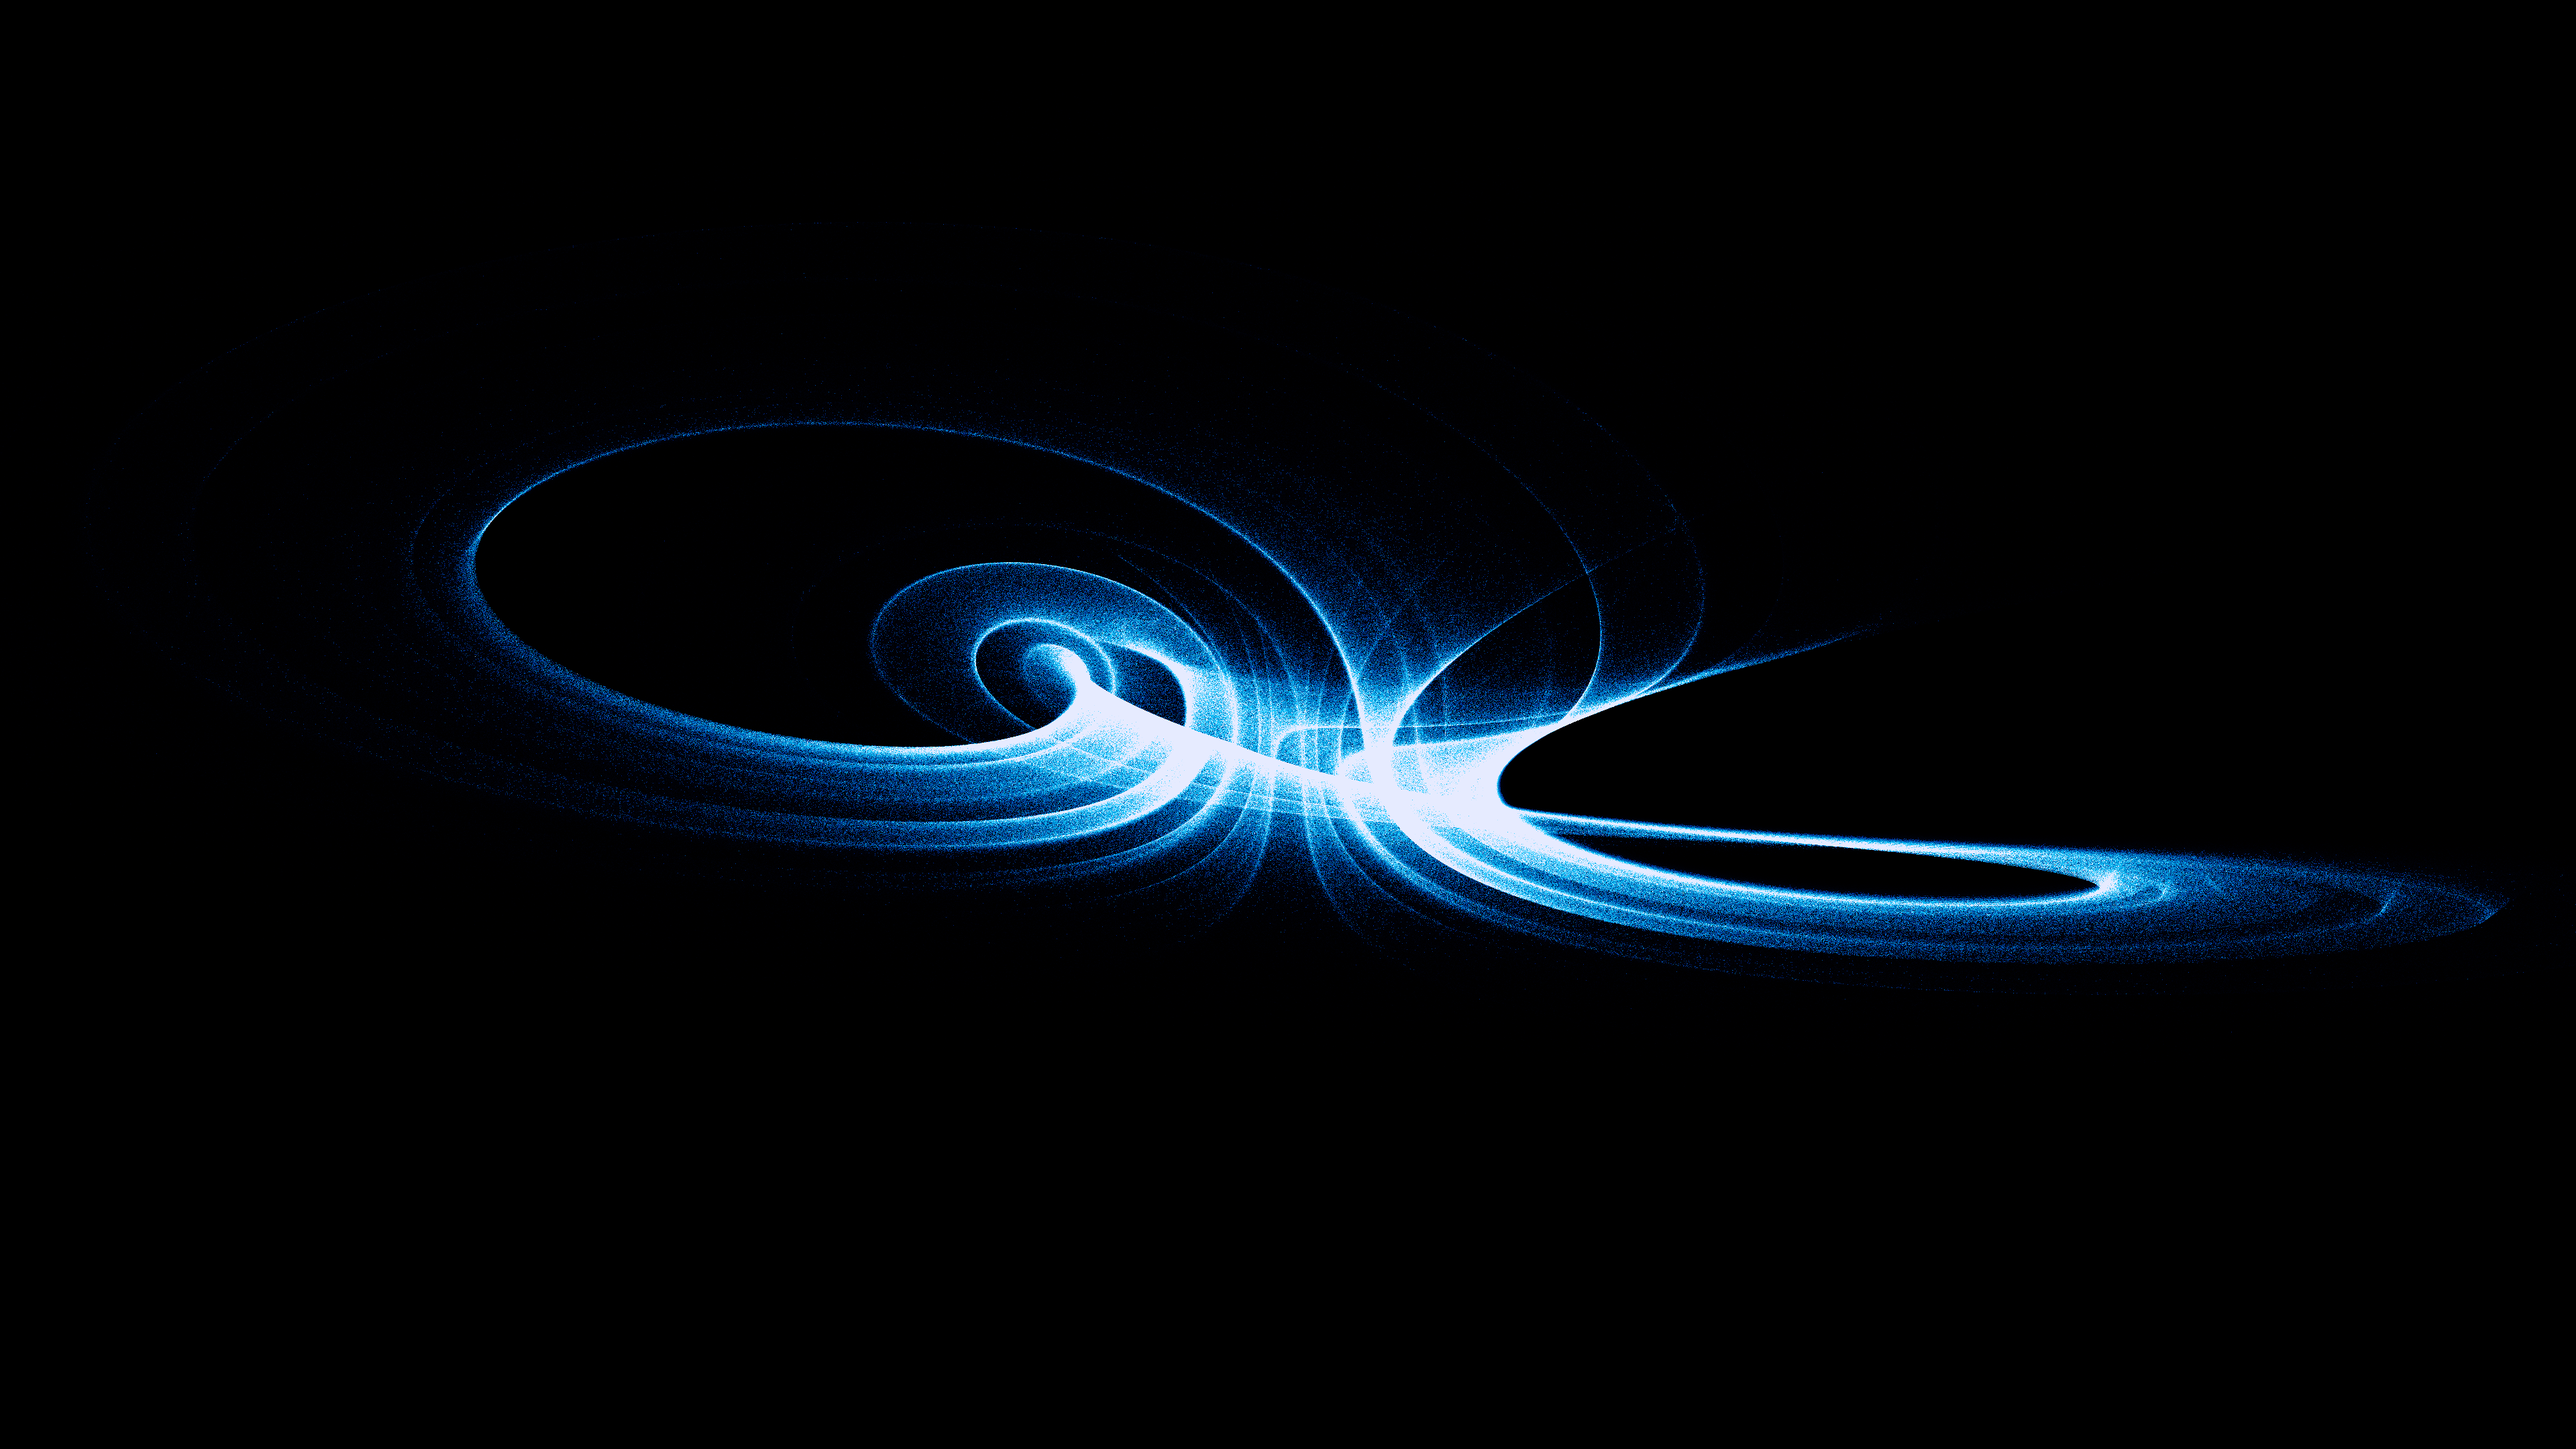
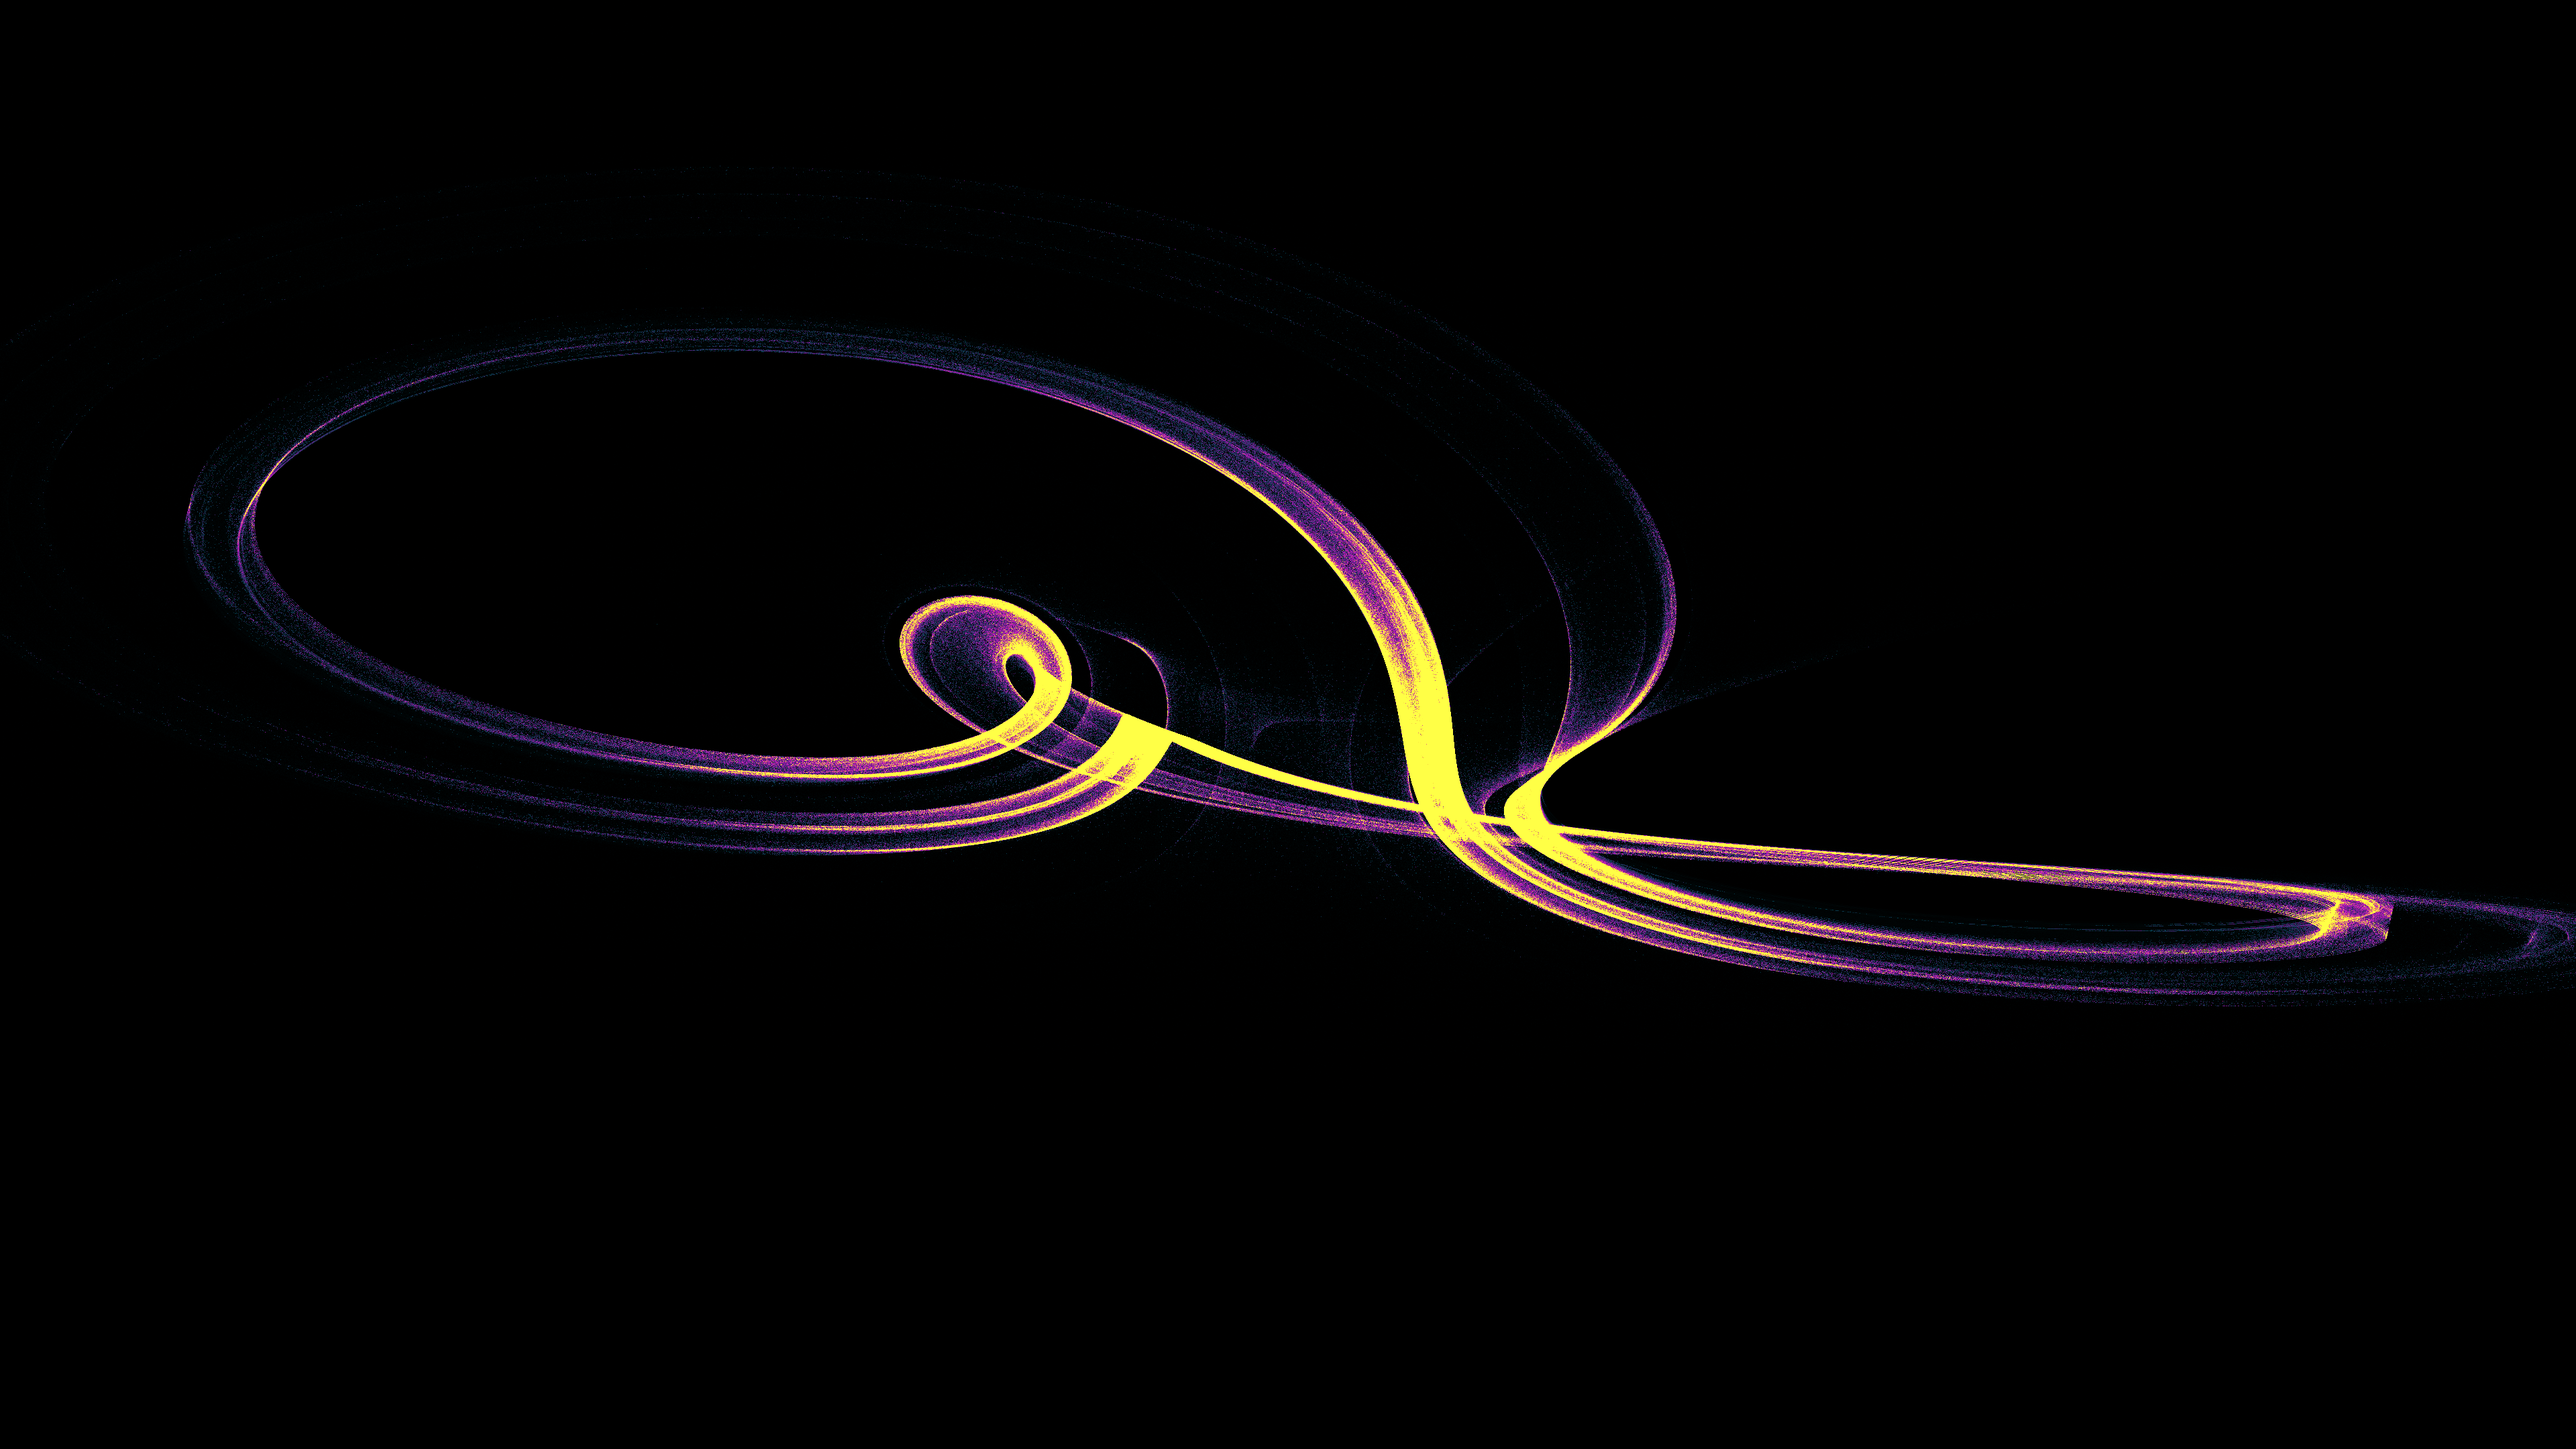
feat: add kinetic_burke_shaw_attractor_2d

Changed region(s): [[0.0625, 0.2171, 1.0, 0.7134], [0.1562, 0.3722, 0.1875, 0.4343], [0.1562, 0.2481, 0.1875, 0.2792]]

diff --git a/sketch/kinetic_burke_shaw_attractor_2d/main.py b/sketch/kinetic_burke_shaw_attractor_2d/main.py
@@ -26,15 +26,17 @@ SIZE = OUTPUT_SIZE
 # Simulation state
 N = 1000000
 # Initial points spread around the origin
-x = np.random.uniform(-1, 1, N).astype(np.float32)
-y = np.random.uniform(-1, 1, N).astype(np.float32)
-z = np.random.uniform(0, 1, N).astype(np.float32)
+x = np.random.uniform(-0.1, 0.1, N).astype(np.float32)
+y = np.random.uniform(-0.1, 0.1, N).astype(np.float32)
+z = np.random.uniform(-0.1, 0.1, N).astype(np.float32)
 
 density_buffer = np.zeros((SIZE[1], SIZE[0]), dtype=np.float32)
 
-def step_burke_shaw(s, v, dt=0.005):
+def step_burke_shaw(s, dt=0.01):
     global x, y, z
-    # Euler integration step for the Burke-Shaw attractor
+    # Euler integration step for the Burke-Shaw Attractor
+    v = 4.272
+    
     dx = -s * (x + y)
     dy = -y - s * x * z
     dz = s * x * y + v
@@ -45,9 +47,9 @@ def step_burke_shaw(s, v, dt=0.005):
     
     # Keep particles bounded just in case
     mask = (np.abs(x_new) > 5) | (np.abs(y_new) > 5) | (np.abs(z_new) > 5) | np.isnan(x_new)
-    x_new[mask] = np.random.uniform(-1, 1, np.sum(mask)).astype(np.float32)
-    y_new[mask] = np.random.uniform(-1, 1, np.sum(mask)).astype(np.float32)
-    z_new[mask] = np.random.uniform(0, 1, np.sum(mask)).astype(np.float32)
+    x_new[mask] = np.random.uniform(-0.1, 0.1, np.sum(mask)).astype(np.float32)
+    y_new[mask] = np.random.uniform(-0.1, 0.1, np.sum(mask)).astype(np.float32)
+    z_new[mask] = np.random.uniform(-0.1, 0.1, np.sum(mask)).astype(np.float32)
     
     x[:] = x_new
     y[:] = y_new
@@ -64,12 +66,11 @@ def draw():
     t = py5.frame_count * 2 * np.pi / TOTAL_FRAMES
     
     # Burke-Shaw parameter with continuous modulation
-    s = 10.0
-    v = 4.272 + 0.5 * np.sin(t)
+    s = 10.0 + np.sin(t)
     
     # Run integration steps
     for _ in range(5):
-        step_burke_shaw(s, v, dt=0.005)
+        step_burke_shaw(s, dt=0.005)
         
     # Rotate 3D attractor gently over time
     theta = t * 0.4
@@ -86,9 +87,9 @@ def draw():
     z_rot2 = y_rot1 * np.sin(phi) + z_rot1 * np.cos(phi)
     
     # Map to screen
-    # Burke-Shaw typical size: x,y in [-2, 2], z in [-2, 2]
-    screen_x = (x_rot2 + 2.5) / 5.0 * SIZE[0]
-    screen_y = (y_rot2 + 2.5) / 5.0 * SIZE[1]
+    # Burke-Shaw typical size: x,y,z in [-2, 2]
+    screen_x = (x_rot2 + 2.0) / 4.0 * SIZE[0]
+    screen_y = (y_rot2 + 2.0) / 4.0 * SIZE[1]
     
     # Fast 2D histogram
     H, _, _ = np.histogram2d(screen_y, screen_x, bins=(SIZE[1], SIZE[0]), range=[[0, SIZE[1]], [0, SIZE[0]]])
@@ -100,25 +101,25 @@ def draw():
     py5.load_np_pixels()
     
     # Map density to colors
-    # Palette: Sapphire, Cyan, and Platinum
+    # Palette: Cyan, Magenta, and Yellow
     density_norm = np.clip(density_buffer / 12.0, 0, 1)
     
-    # Sapphire base
+    # Cyan base
     r_col = 0 * (density_norm ** 1.5)
-    g_col = 30 * (density_norm ** 1.5)
-    b_col = 130 * (density_norm ** 1.5)
+    g_col = 60 * (density_norm ** 1.5)
+    b_col = 70 * (density_norm ** 1.5)
     
-    # Cyan midtones
-    cyan_mask = (density_norm > 0.3) & (density_norm < 0.7)
-    r_col[cyan_mask] = np.maximum(r_col[cyan_mask], 0 + 0 * ((density_norm[cyan_mask] - 0.3) / 0.4))
-    g_col[cyan_mask] = np.maximum(g_col[cyan_mask], 30 + 170 * ((density_norm[cyan_mask] - 0.3) / 0.4))
-    b_col[cyan_mask] = np.maximum(b_col[cyan_mask], 130 + 125 * ((density_norm[cyan_mask] - 0.3) / 0.4))
+    # Magenta midtones
+    mag_mask = (density_norm > 0.3) & (density_norm < 0.7)
+    r_col[mag_mask] = np.maximum(r_col[mag_mask], 0 + 200 * ((density_norm[mag_mask] - 0.3) / 0.4))
+    g_col[mag_mask] = np.maximum(g_col[mag_mask], 60 - 60 * ((density_norm[mag_mask] - 0.3) / 0.4))
+    b_col[mag_mask] = np.maximum(b_col[mag_mask], 70 + 130 * ((density_norm[mag_mask] - 0.3) / 0.4))
     
-    # Platinum highlights
-    plat_mask = density_norm > 0.7
-    r_col[plat_mask] = np.maximum(r_col[plat_mask], 0 + 230 * ((density_norm[plat_mask] - 0.7) / 0.3))
-    g_col[plat_mask] = np.maximum(g_col[plat_mask], 200 + 35 * ((density_norm[plat_mask] - 0.7) / 0.3))
-    b_col[plat_mask] = np.maximum(b_col[plat_mask], 255 + 0 * ((density_norm[plat_mask] - 0.7) / 0.3))
+    # Yellow highlights
+    yel_mask = density_norm > 0.7
+    r_col[yel_mask] = np.maximum(r_col[yel_mask], 200 + 55 * ((density_norm[yel_mask] - 0.7) / 0.3))
+    g_col[yel_mask] = np.maximum(g_col[yel_mask], 0 + 255 * ((density_norm[yel_mask] - 0.7) / 0.3))
+    b_col[yel_mask] = np.maximum(b_col[yel_mask], 200 - 200 * ((density_norm[yel_mask] - 0.7) / 0.3))
     
     py5.np_pixels[:, :, 0] = 255
     py5.np_pixels[:, :, 1] = r_col.astype(np.uint8)

diff --git a/sketch/WORKS.md b/sketch/WORKS.md
@@ -1,3 +1,10 @@
+## kinetic_burke_shaw_attractor_2d
+- **Date**: 2026-07-25
+- **Type**: Animation (900 frames, 60fps)
+- **Concept**: A continuous 3D chaotic flow with intricate and elegant spiraling vortex flows.
+- **Techniques**: The Burke-Shaw Attractor. We numerically integrate the continuous differential equations using the Euler method for 1M particles. The spiraling 3D structure is rotated and orthographically projected onto the 2D plane, gently modulating the parameter `s` over time.
+- **Palette**: Cyan, Magenta, and Yellow.
+
 ## kinetic_coullet_attractor_2d
 - **Date**: 2026-07-25
 - **Type**: Animation (900 frames, 60fps)

diff --git a/.agents/FEEDBACK.md b/.agents/FEEDBACK.md
@@ -4,6 +4,12 @@
 Agents MUST NOT write anything in the `Comment` field. When registering a new work, Agents must leave the `Rating` and `Comment` fields empty or with their default labels as placeholders for the user.
 The Artist reads this file before starting a new sketch to understand preferences.
 
+## kinetic_burke_shaw_attractor_2d
+
+- **Rating**: 
+- **Comment**: 
+
+
 ## kinetic_coullet_attractor_2d
 
 - **Rating**: 
